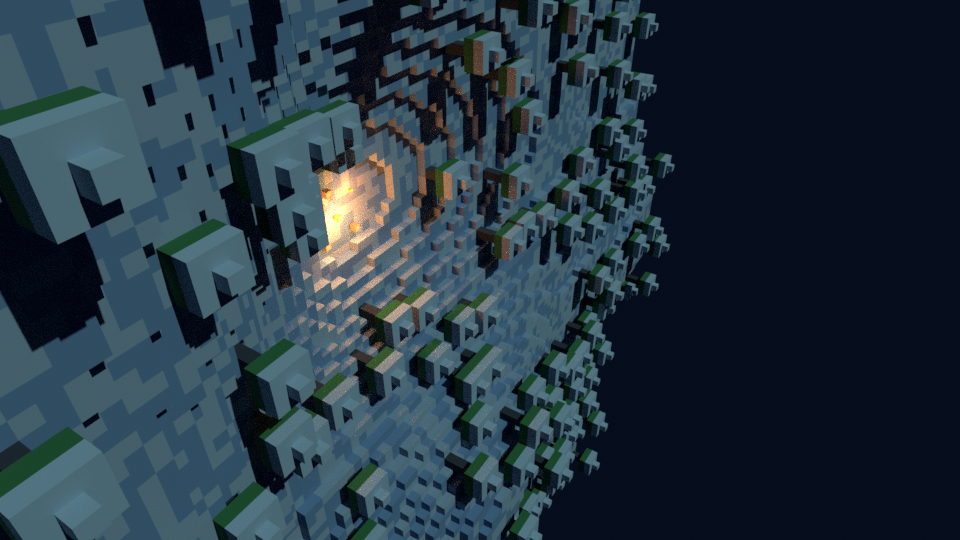
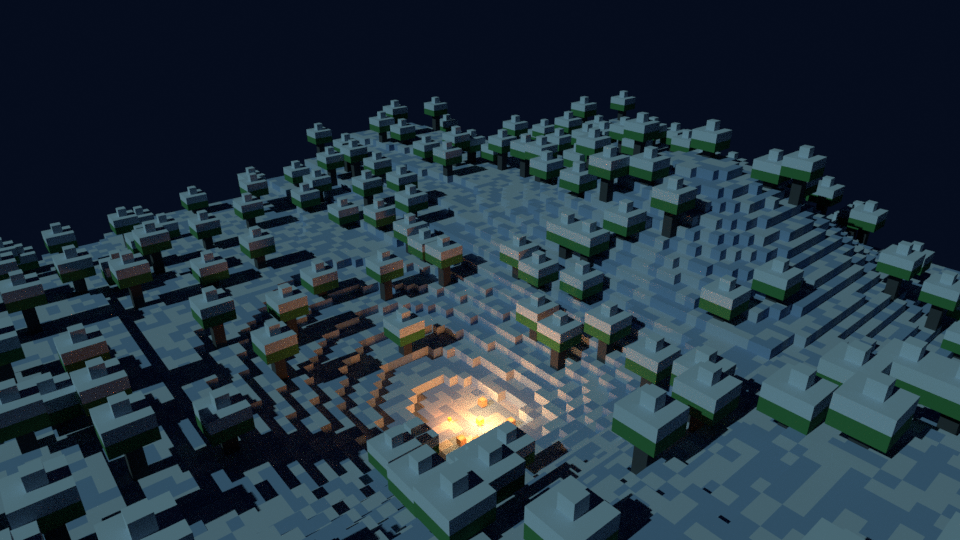
Re-render the signoff pair against the fixed camera
The committed bench artifact was rendered by the rolled camera and did
not predict the build, which is AC15's stated failure mode. Re-rendered
with the corrected basis, and the comparison notes now name the client
capture's 101 exit on a devpod as the environment limitation it is.

diff --git a/_bmad-output/implementation-artifacts/10-1-signoff/what-you-will-see.md b/_bmad-output/implementation-artifacts/10-1-signoff/what-you-will-see.md
@@ -1,10 +1,37 @@
 # Headless bench comparison
 
-Compare terrain silhouette, boot framing, material palette, snow caps, spruce crowns, and the
-camp's warm pool. The two images intentionally differ in these ways: the bench is a Cycles path
-tracer while the client is a Bevy/wgpu rasterizer; the headless client is 1280x720 and the bench
-is 960x540 (both 16:9); the bench has no aurora, stars, distance fog, or `rim_level`; and their
-exports/captures landed at different ticks, so dwarf positions differ while terrain does not.
+**The question for Wolf:** does `bench-valley.png` *predict* what `gui-capture.png` shows? Not
+"are they identical" — a path tracer and a rasterizer never will be. The bar is fidelity of
+terrain silhouette, boot framing, palette, snow caps, spruce crowns, and the camp's warm pool.
 
-The bench contains one exposed-face mesh sourced only from the exported wire snapshot. The client
-frame is a `gui --headless --capture` output from the same default seed and boot framing.
+Compare in this order: the framing (where the camp sits, where the skyline cuts), then the
+terrain silhouette, then the palette and the snow caps, then the campfire's warm pool.
+
+## Every known difference, so you are not asked to rediscover them
+
+- **Different renderers.** The bench is Cycles, a CPU path tracer; the client is Bevy/wgpu, a
+  rasterizer. Shadow softness and light falloff differ by construction.
+- **Different resolutions**, same 16:9 aspect: the client frame is 1280x720, the bench 960x540.
+- **The bench has no aurora, no stars, no distance fog and no `rim_level` edge treatment.** Each
+  is bespoke client geometry, deliberately out of scope here. The client's green aurora band and
+  its star field have no counterpart in the bench, and that is the largest visual difference
+  between the two images.
+- **Different ticks.** The export and the capture landed at different ticks, so dwarf positions
+  differ. Terrain does not.
+- **The client draws a thin extra top layer.** Its boot draw set is
+  `is_exposed(..) || (z == level && solid)`, so it shows solid cells at the selected top slice
+  that the bench, which draws only the exposed set, omits.
+
+## Provenance
+
+- Bench: `blender --background --python scripts/bench/valley_bench.py -- <snapshot.json> <out.png>`
+  on the default seed. Reported `exposed_cells=44984`, `non_sky_fraction=0.674020`,
+  `distinct_colors=45642`.
+- Client: `gui <port> --headless --capture gui-capture.png --at-tick 100 --frames 20` against a
+  live `simd`. **This command exits 101 on a devpod** — `capture.rs`'s delivered-tick floor is not
+  reachable under llvmpipe, where tick delivery is erratic (measured 26 ticks, then 2, across
+  `--frames` values from 20 to 200,000). The PNG is written *before* validation, so the frame is
+  genuine and complete; only the integrity assertion fails. Story 9.1 already recorded that every
+  `--capture` AC is vehicle-bound on a devpod. The assertion was left alone deliberately: weakening
+  a client-side integrity rule to make a bench story's artifact green would ship a workaround for
+  an environment limitation.
